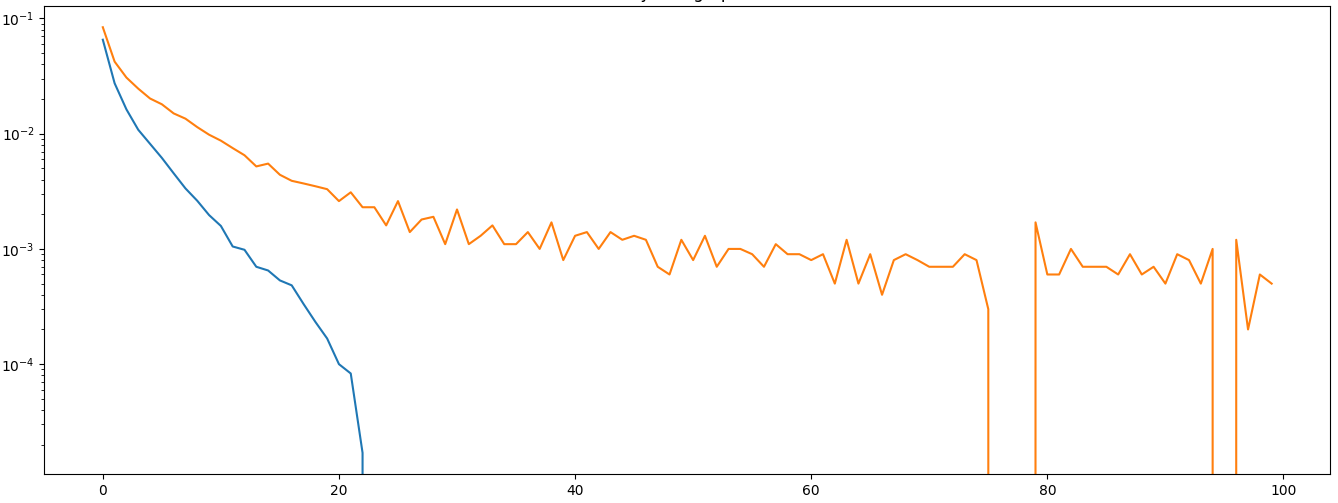
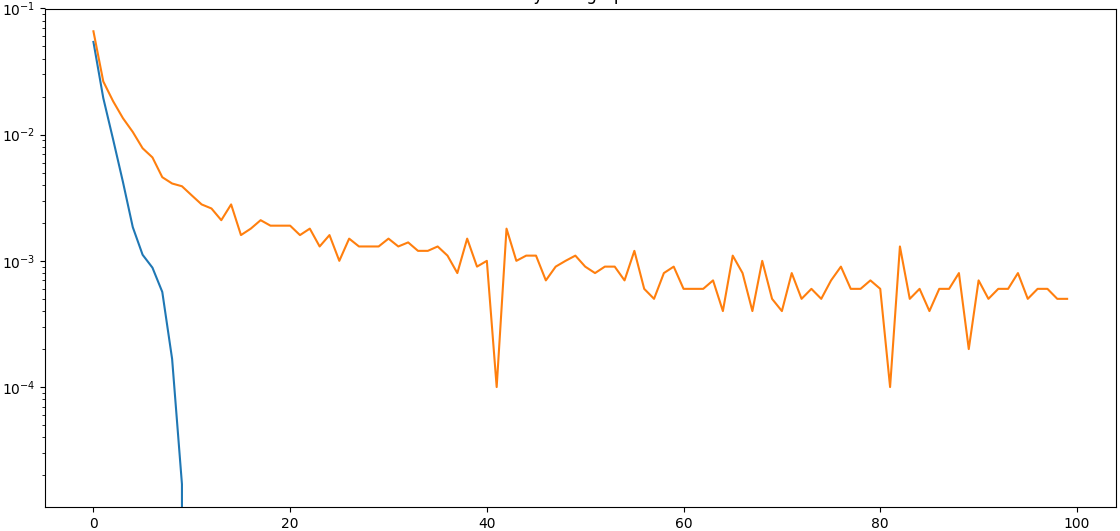
updated 64 nodes to 256 nodes

diff --git a/adam.py b/adam.py
@@ -9,7 +9,7 @@ mnist = tf.keras.datasets.mnist
 x_train, x_test = x_train / 255.0, x_test / 255.0
 model = tf.keras.models.Sequential([
   tf.keras.layers.Flatten(input_shape=(28, 28)),
-  tf.keras.layers.Dense(64, activation='relu'),
+  tf.keras.layers.Dense(256, activation='relu'),
   tf.keras.layers.Dense(10)
 ])
 loss_fn = tf.keras.losses.SparseCategoricalCrossentropy(from_logits=True)
@@ -18,5 +18,5 @@ model.compile(optimizer='adam',
     loss=loss_fn,
     metrics=['accuracy'])
 
-model.fit(x_train, y_train, epochs=10000)
+model.fit(x_train, y_train, epochs=100)
 model.evaluate(x_test,  y_test, verbose=2)

diff --git a/main.cpp b/main.cpp
@@ -116,7 +116,7 @@ int Main(const v<string>&) {
 
   size_t
     input_size = 28 * 28,
-    hidden_size = 64,
+    hidden_size = 256,
     output_size = 10
   ;
 

diff --git a/README.md b/README.md
@@ -5,8 +5,8 @@ Adas is short for Adaptive Step Size, it's an optimizer that unlike other optimi
 
 ![ADAS vs ADAM](/adas_vs_adam.png)
 
-This is a graph of ADAS (blue) and ADAM (orange)'s inaccuracy percentages in log scale over epochs on MNIST's training dataset using shallow network of 64 hidden nodes.
-It can be seen that in the start ADAS is ~2x faster than ADAM, and while ADAM slows down, ADAS converages to 0% inaccuracy, in 24 iterations exactly, and since then never diverging.
+This is a graph of ADAS (blue) and ADAM (orange)'s inaccuracy percentages in log scale over epochs on MNIST's training dataset using shallow network of 256 hidden nodes.
+While ADAM slows down significantly overtime, ADAS converages to 0% inaccuracy in 11 iterations.
 
 To see how ADAM was tested run the python script adam.py, it uses tensorflow.
 ADAS was compared against other optimizers (AdaGrad, AdaDelta, RMSprop, Adamax, Nadam) in tensorflow, and none of them showed better results than ADAM, so their performance was left out of this graph.
